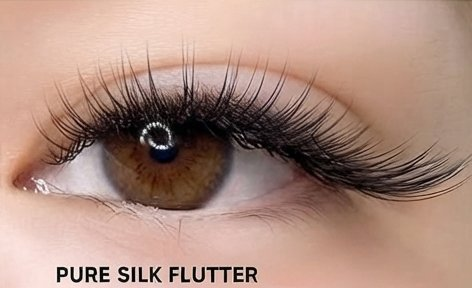
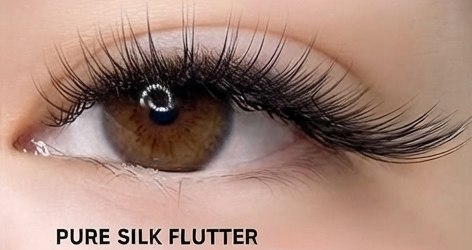
Recut the lash tiles on the chart's real grid
The chart's rows are not quarters: measuring the image puts the boundaries at
0, 267, 543, 838, 1122 — heights of 267, 276, 295 and 284. Slicing it into
four equal 280px bands meant every tile carried a sliver of its neighbour
along one edge, which is the band that looked wrong.

Each tile is now anchored on its own caption, whose position was measured the
same way (y 233-250, 509-526, 804-820, 1101-1116), and clamped inside the real
cell so nothing bleeds. Height drops from 288 to 250, which also trims the
empty skin that made the framing look loose.

The note no longer mentions a shared starting price.

diff --git a/index.html b/index.html
@@ -269,27 +269,27 @@
              that is how the trade names them and how customers ask for them. -->
         <div class="minigal minigal-lash" id="lashStyles">
           <button class="shot" type="button" data-full="photos/lash/styles.jpg">
-            <img loading="lazy" decoding="async" width="472" height="288" src="photos/lash/1.jpg" alt="Natural Look lash style"></button>
+            <img loading="lazy" decoding="async" width="472" height="250" src="photos/lash/1.jpg" alt="Natural Look lash style"></button>
           <button class="shot" type="button" data-full="photos/lash/styles.jpg">
-            <img loading="lazy" decoding="async" width="472" height="288" src="photos/lash/2.jpg" alt="Natural K Vol lash style"></button>
+            <img loading="lazy" decoding="async" width="472" height="250" src="photos/lash/2.jpg" alt="Natural K Vol lash style"></button>
           <button class="shot" type="button" data-full="photos/lash/styles.jpg">
-            <img loading="lazy" decoding="async" width="472" height="288" src="photos/lash/3.jpg" alt="Sweet Look lash style"></button>
+            <img loading="lazy" decoding="async" width="472" height="250" src="photos/lash/3.jpg" alt="Sweet Look lash style"></button>
           <button class="shot" type="button" data-full="photos/lash/styles.jpg">
-            <img loading="lazy" decoding="async" width="472" height="288" src="photos/lash/4.jpg" alt="Volume Lite lash style"></button>
+            <img loading="lazy" decoding="async" width="472" height="250" src="photos/lash/4.jpg" alt="Volume Lite lash style"></button>
           <button class="shot" type="button" data-full="photos/lash/styles.jpg">
-            <img loading="lazy" decoding="async" width="472" height="288" src="photos/lash/5.jpg" alt="Sexy Look lash style"></button>
+            <img loading="lazy" decoding="async" width="472" height="250" src="photos/lash/5.jpg" alt="Sexy Look lash style"></button>
           <button class="shot" type="button" data-full="photos/lash/styles.jpg">
-            <img loading="lazy" decoding="async" width="472" height="288" src="photos/lash/6.jpg" alt="Signature K Vol lash style"></button>
+            <img loading="lazy" decoding="async" width="472" height="250" src="photos/lash/6.jpg" alt="Signature K Vol lash style"></button>
           <button class="shot" type="button" data-full="photos/lash/styles.jpg">
-            <img loading="lazy" decoding="async" width="472" height="288" src="photos/lash/7.jpg" alt="Pure Silk Flutter lash style"></button>
+            <img loading="lazy" decoding="async" width="472" height="250" src="photos/lash/7.jpg" alt="Pure Silk Flutter lash style"></button>
           <button class="shot" type="button" data-full="photos/lash/styles.jpg">
-            <img loading="lazy" decoding="async" width="472" height="288" src="photos/lash/8.jpg" alt="V-Vibes lash style"></button>
+            <img loading="lazy" decoding="async" width="472" height="250" src="photos/lash/8.jpg" alt="V-Vibes lash style"></button>
         </div>
         <p class="note"
-           data-en="Eight styles, 8 to 14 mm. Tell us the look you want when you book — same starting price for all of them."
-           data-th="8 สไตล์ ความยาว 8–14 มม. แจ้งสไตล์ที่ต้องการตอนจอง — ราคาเริ่มต้นเท่ากันทุกสไตล์"
-           data-ru="Восемь стилей, длина 8–14 мм. Скажите при записи, какой хотите — стартовая цена одинаковая для всех.">
-          Eight styles, 8 to 14 mm. Tell us the look you want when you book — same starting price for all of them.
+           data-en="Eight styles, 8 to 14 mm. Tell us the look you want when you book."
+           data-th="8 สไตล์ ความยาว 8–14 มม. แจ้งสไตล์ที่ต้องการตอนจอง"
+           data-ru="Восемь стилей, длина 8–14 мм. Скажите при записи, какой хотите.">
+          Eight styles, 8 to 14 mm. Tell us the look you want when you book.
         </p>
       </article>
 

diff --git a/style.css b/style.css
@@ -414,7 +414,7 @@ h3{margin:0; font-size:15px; font-weight:900}
 
 /* lash chart tiles are wider than tall and carry their own caption */
 .minigal-lash .shot{width: clamp(210px, 66%, 280px)}
-.minigal-lash .shot img{aspect-ratio: 472/288}
+.minigal-lash .shot img{aspect-ratio: 472/250}
 .link{font-size:12px; color:var(--muted); text-decoration:none}
 .link:hover{text-decoration:underline}
 
